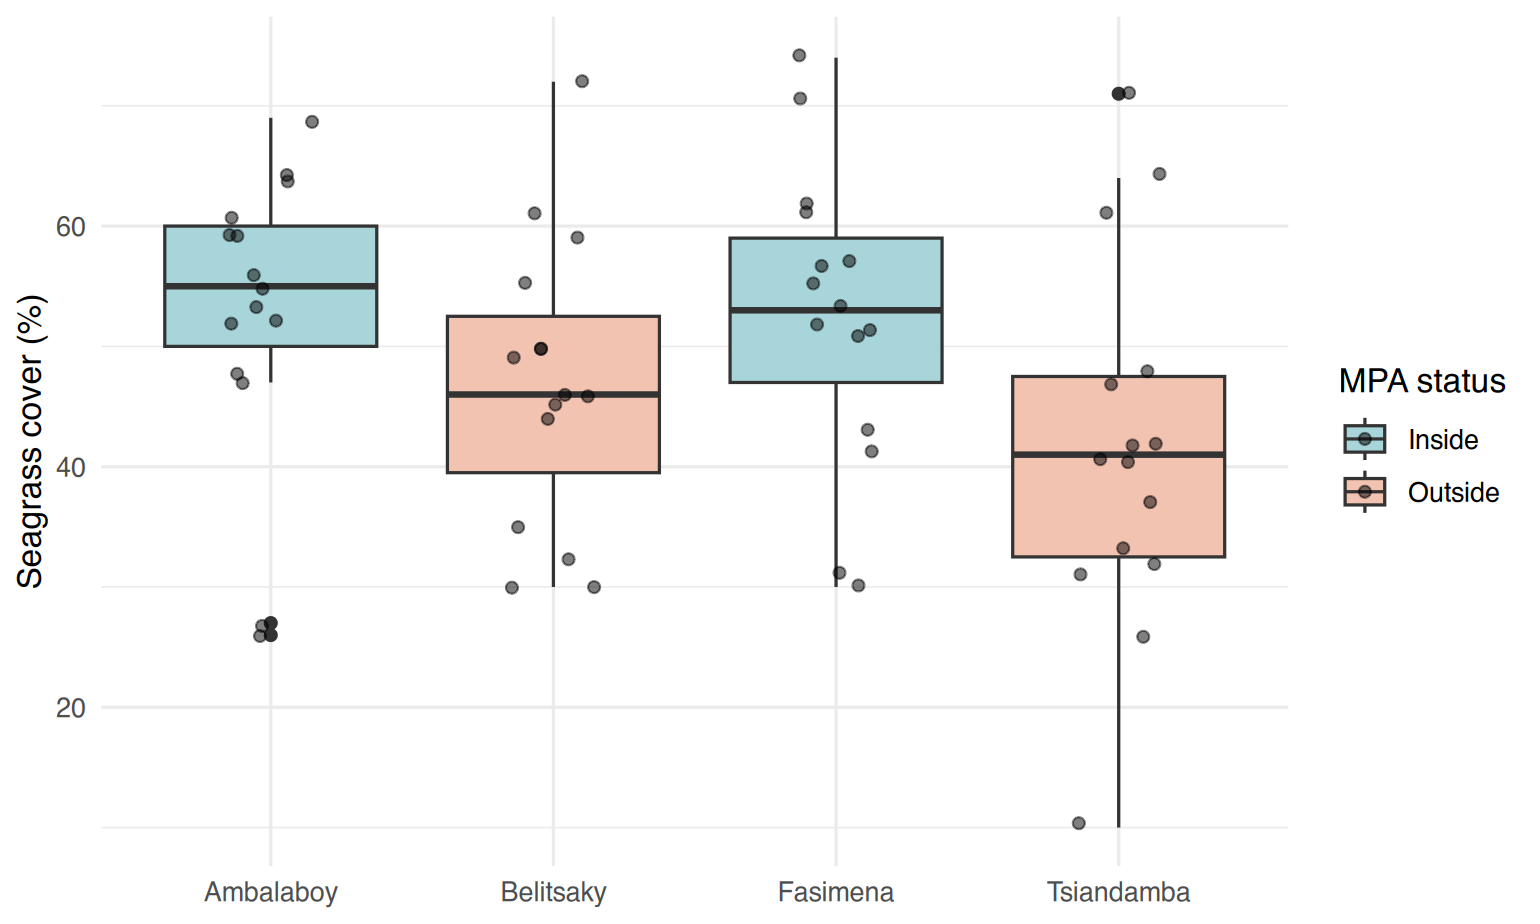
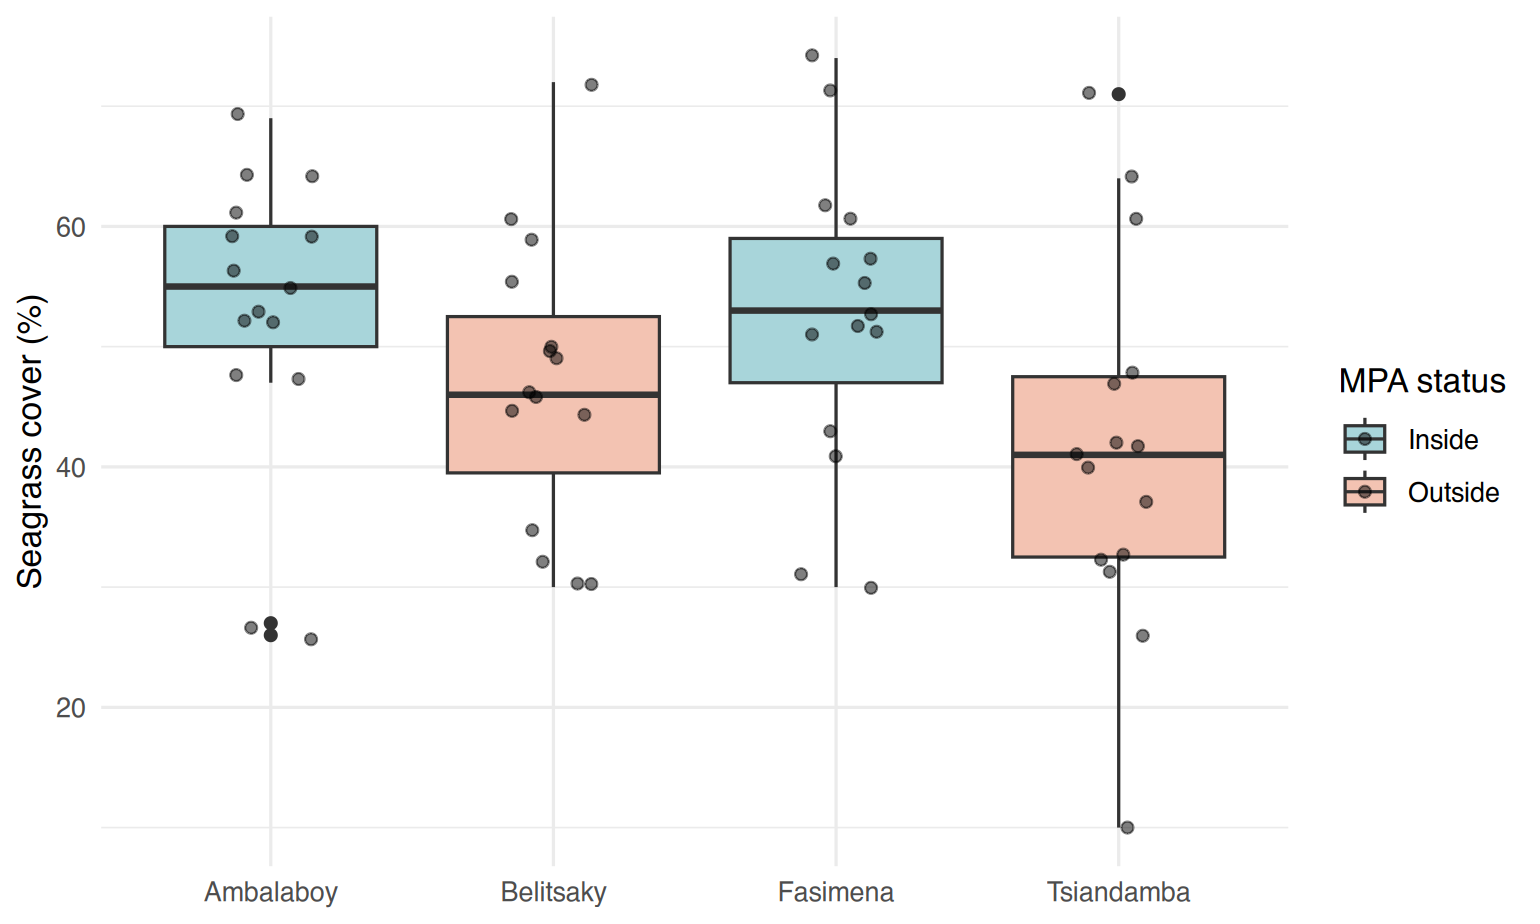
remove aroo

diff --git a/docs/01-first-steps.html b/docs/01-first-steps.html
@@ -583,9 +583,8 @@ mieux que <code>m1</code>.</li>
 </ul>
 </div>
 <div class="sourceCode" id="cb23"><pre class="sourceCode r"><code class="sourceCode r"><span id="cb23-1"><a href="#cb23-1" tabindex="-1"></a><span class="fu">ls</span>()                 <span class="co"># lists the objects in memory (same as the Environment pane)</span></span></code></pre></div>
-<pre><code>#&gt;  [1] &quot;accounts&quot;      &quot;density&quot;       &quot;dl&quot;            &quot;fig_svg&quot;       &quot;make_password&quot; &quot;make_username&quot;
-#&gt;  [7] &quot;q_mcq&quot;         &quot;q_num&quot;         &quot;q_text&quot;        &quot;quadrat_area&quot;  &quot;quiz&quot;          &quot;shoots&quot;       
-#&gt; [13] &quot;students&quot;</code></pre>
+<pre><code>#&gt; [1] &quot;density&quot;      &quot;dl&quot;           &quot;fig_svg&quot;      &quot;q_mcq&quot;        &quot;q_num&quot;        &quot;q_text&quot;       &quot;quadrat_area&quot;
+#&gt; [8] &quot;quiz&quot;         &quot;shoots&quot;</code></pre>
 <div class="sourceCode" id="cb25"><pre class="sourceCode r"><code class="sourceCode r"><span id="cb25-1"><a href="#cb25-1" tabindex="-1"></a><span class="fu">rm</span>(density)          <span class="co"># removes an object</span></span></code></pre></div>
 </div>
 </div>

diff --git a/assets/course.css b/assets/course.css
@@ -181,3 +181,6 @@ table { font-size: .95em; }
 
 @media (max-width: 600px) { body { font-size: 16px; } .callout { padding-left: 44px; } .callout::before { left: 12px; } }
 @media print { .rc-side, .rc-done-btn, .navbar, .rc-copy { display: none !important; } body { padding-top: 0; } }
+
+.rc-login-by { display: none; }   /* hide the author line on the login screen */
+

diff --git a/docs/assets/course.css b/docs/assets/course.css
@@ -181,3 +181,6 @@ table { font-size: .95em; }
 
 @media (max-width: 600px) { body { font-size: 16px; } .callout { padding-left: 44px; } .callout::before { left: 12px; } }
 @media print { .rc-side, .rc-done-btn, .navbar, .rc-copy { display: none !important; } body { padding-top: 0; } }
+
+.rc-login-by { display: none; }   /* hide the author line on the login screen */
+
